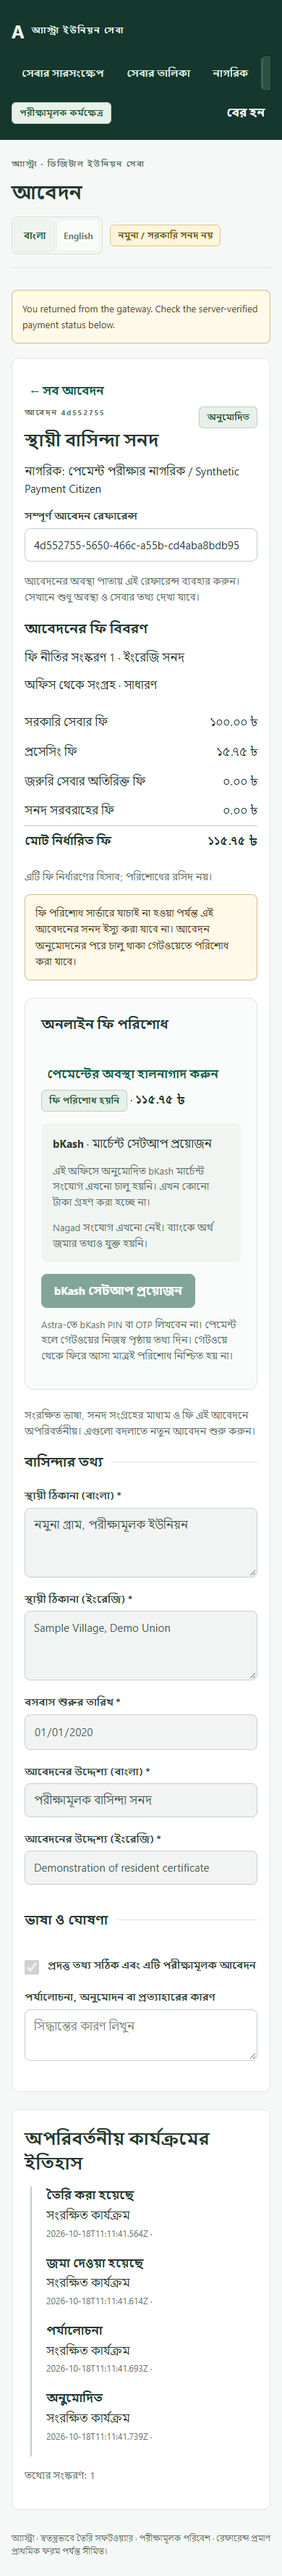
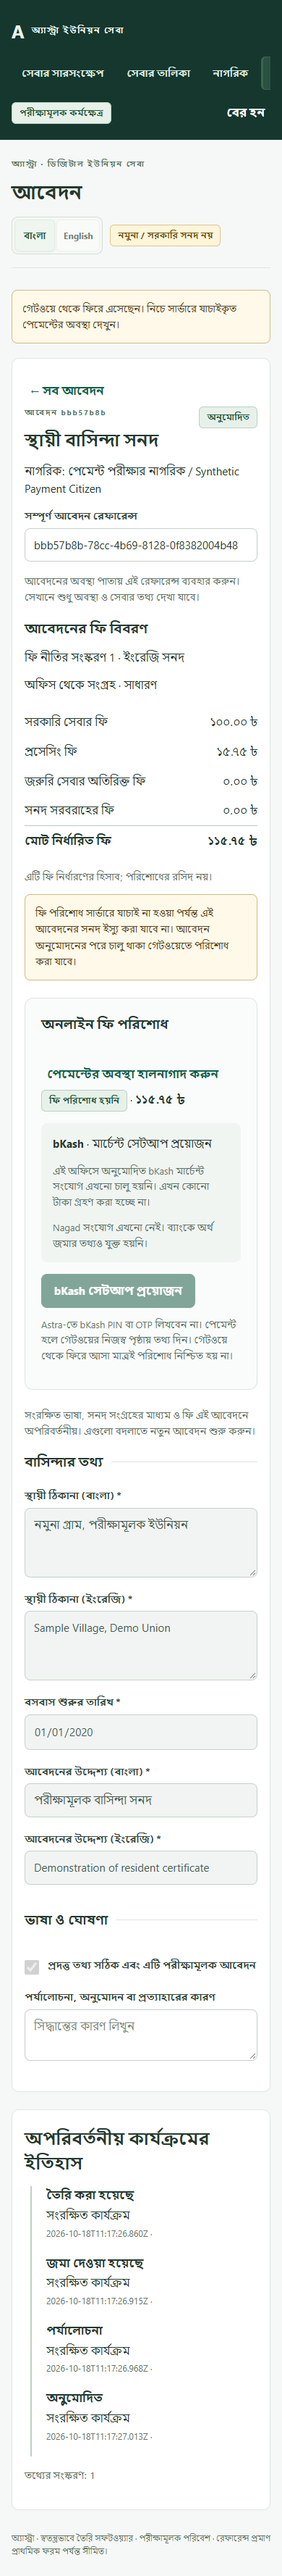
Keep payment return notice reactive to Bangla and English changes

diff --git a/apps/web/test/payments-browser.test.ts b/apps/web/test/payments-browser.test.ts
@@ -607,6 +607,11 @@ test(
       });
       await banglaCard.getByText("ফি পরিশোধ হয়নি", { exact: true }).waitFor();
       assert.equal(
+        await page.locator(".notice.message").innerText(),
+        "গেটওয়ে থেকে ফিরে এসেছেন। নিচে সার্ভারে যাচাইকৃত পেমেন্টের অবস্থা দেখুন।",
+        "The gateway-return notice follows the current interface language",
+      );
+      assert.equal(
         await banglaCard
           .getByRole("button", { name: "bKash সেটআপ প্রয়োজন", exact: true })
           .isDisabled(),
@@ -624,6 +629,12 @@ test(
         path: "execution/screenshots/payments-unconfigured-mobile-bn.png",
         fullPage: true,
       });
+      await page.getByRole("button", { name: "English", exact: true }).click();
+      assert.equal(
+        await page.locator(".notice.message").innerText(),
+        "You returned from the gateway. Check the server-verified payment status below.",
+        "Switching back restores the English return notice without reloading",
+      );
       assert.deepEqual(errors, []);
     } finally {
       await context.close();

diff --git a/apps/web/src/main.tsx b/apps/web/src/main.tsx
@@ -275,7 +275,7 @@ function App() {
     void run(async () => {
       await openApplication(paymentReturnApplication);
       history.replaceState({}, "", "/");
-      setMessage(choose({ bn: "গেটওয়ে থেকে ফিরে এসেছেন। নিচে সার্ভারে যাচাইকৃত পেমেন্টের অবস্থা দেখুন।", en: "You returned from the gateway. Check the server-verified payment status below." }));
+      setMessage("You returned from the gateway. Check the server-verified payment status below.");
     });
   }, [session]);
   useEffect(() => {
